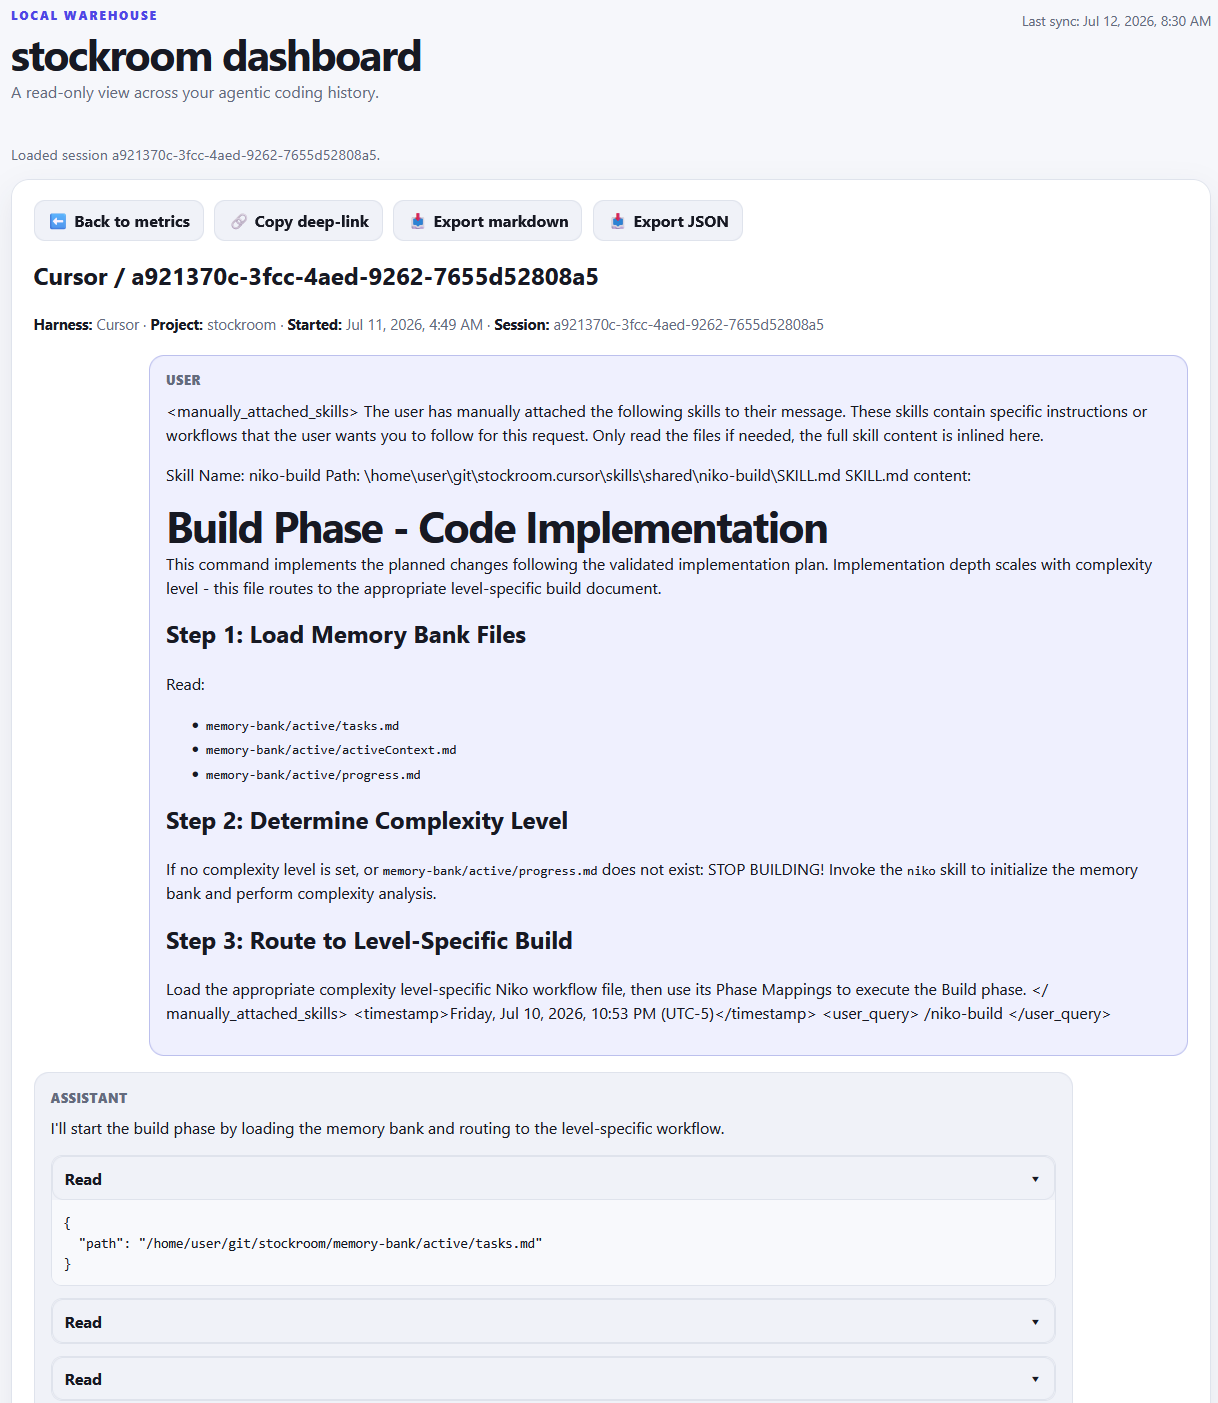
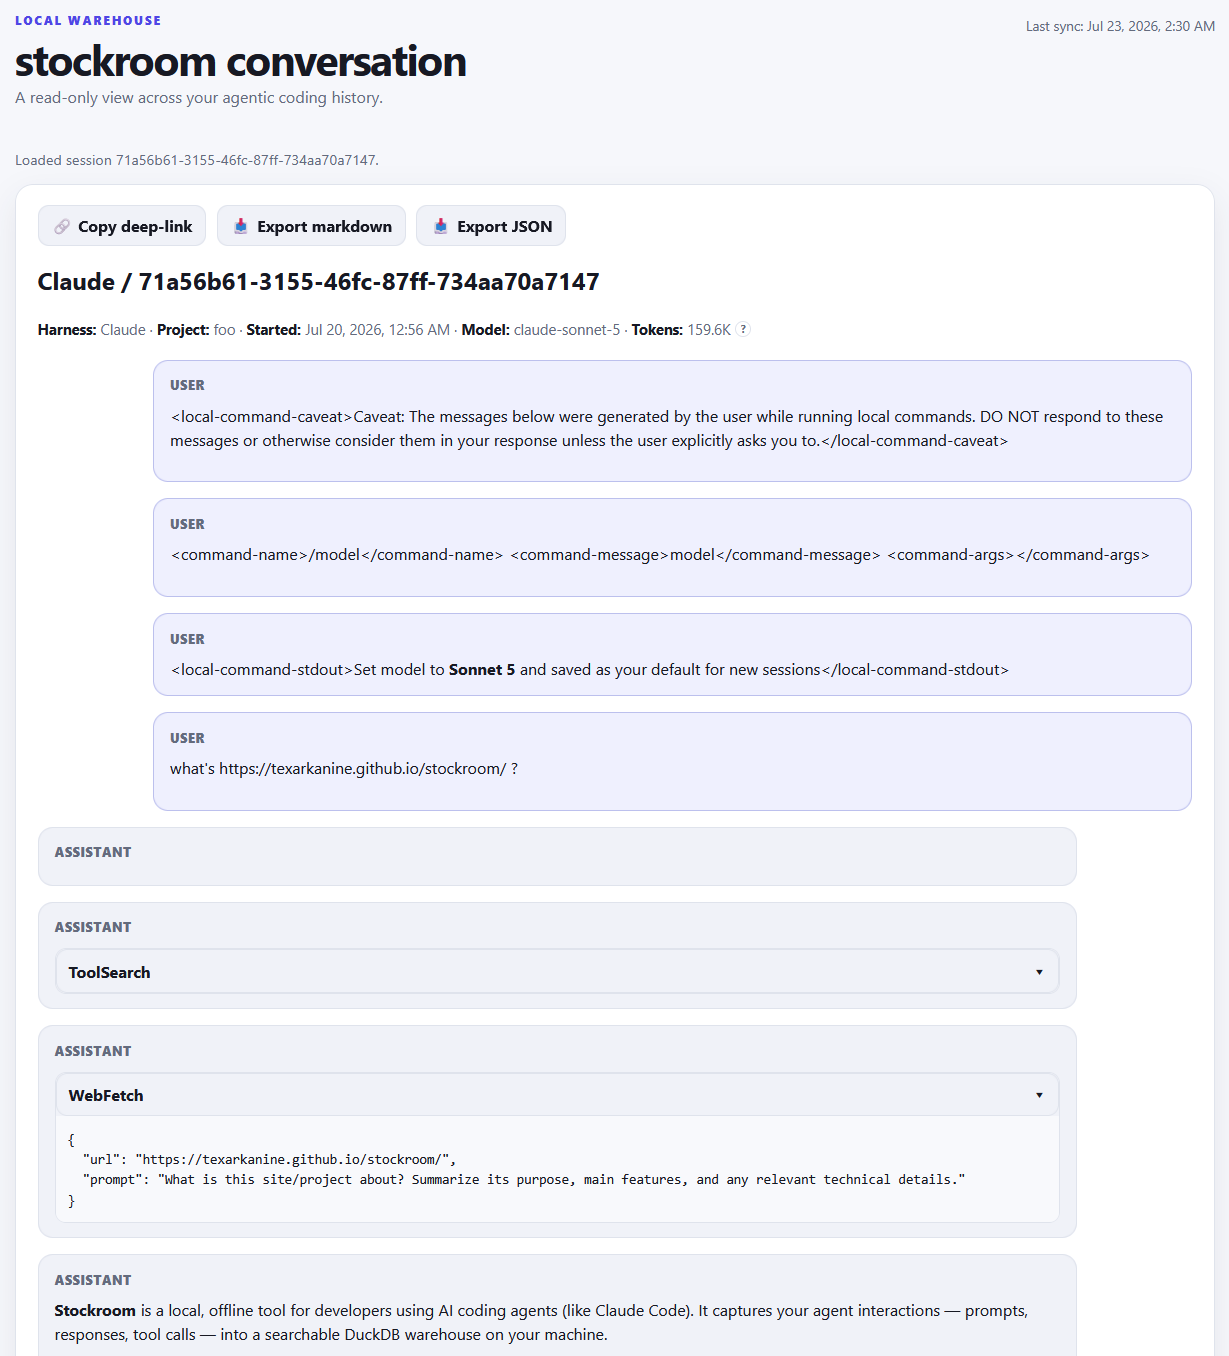
fix: tweak docs

diff --git a/docs/user-guide/dashboard.md b/docs/user-guide/dashboard.md
@@ -33,21 +33,22 @@ Harness filters, time ranges, and Aggregate / Compare views over sessions, messa
 
 ### Sessions
 
-The metrics **Sessions** panel shows up to 20 matching conversations (10 newest + `… N more` + 10 oldest when there are more). Click a row to open reconstruction, or `… N more` for the paginated sessions-list view. That list has its own harnesses, time range, and per-page control (`25` / `50` / `100` / `All`); filter state lives in the URL. Browser Back is the only way back from the list or a session.
+The metrics **Sessions** panel shows up to 20 matching conversations (10 newest + `… N more` + 10 oldest when there are more). Click a row to open reconstruction, or `… N more` for the paginated sessions-list view. That list has its own harnesses, time range, and per-page control; filter state lives in the URL.
 
-Both the panel table and the full list include a **Tokens** column (between Messages and Model). Counts use a compact K/M-style total; hover the `?` for an input / output / cache breakdown when usage is known. Claude Code sessions show real totals (including zeros). Cursor sessions (and other cases without usage data) show an em dash with no hover.
+Both the panel table and the full list include a **Tokens** display. Counts use a compact **K**ilo / **M**ega, etc-style total; hover the `?` for an input / output / cache breakdown when usage is known
 
-List deep-link shape:
+List deep-link examples:
 
 ```text
-http://127.0.0.1:58008/?view=sessions&harness={harness}&per_page=50
+http://127.0.0.1:58008/?view=sessions&harness=cursor&per_page=50
+http://127.0.0.1:58008/?view=sessions&harness=cursor&harness=claude&per_page=100
+http://127.0.0.1:58008/?view=sessions&harness=claude&since=2026-07-01T00:00:00Z&until=2026-08-01T00:00:00Z&page=2&per_page=25
+http://127.0.0.1:58008/?view=sessions&per_page=all
 ```
-
-Optional: repeated `harness`, `since` / `until` (omit both for **All** — the full unwindowed warehouse range), `page`, `per_page` (`25` | `50` | `100` | `all`).
 
 ### Session inspection
 
-Open a conversation from Sessions (or a deep link) to read the thread, copy a deep-link, or export markdown/JSON when in-dashboard rendering is not enough. The header shows harness, project, started time, model (if known), and tokens (same compact total + hover breakdown as the lists; em dash when usage is unknown).
+Open a conversation from Sessions (or a deep link) to read the thread, copy a deep-link, or export markdown/JSON when in-dashboard rendering is not enough.
 
 ![Stockroom dashboard — session conversation view](../img/stockroom-dashboard-convo-light.png)
 